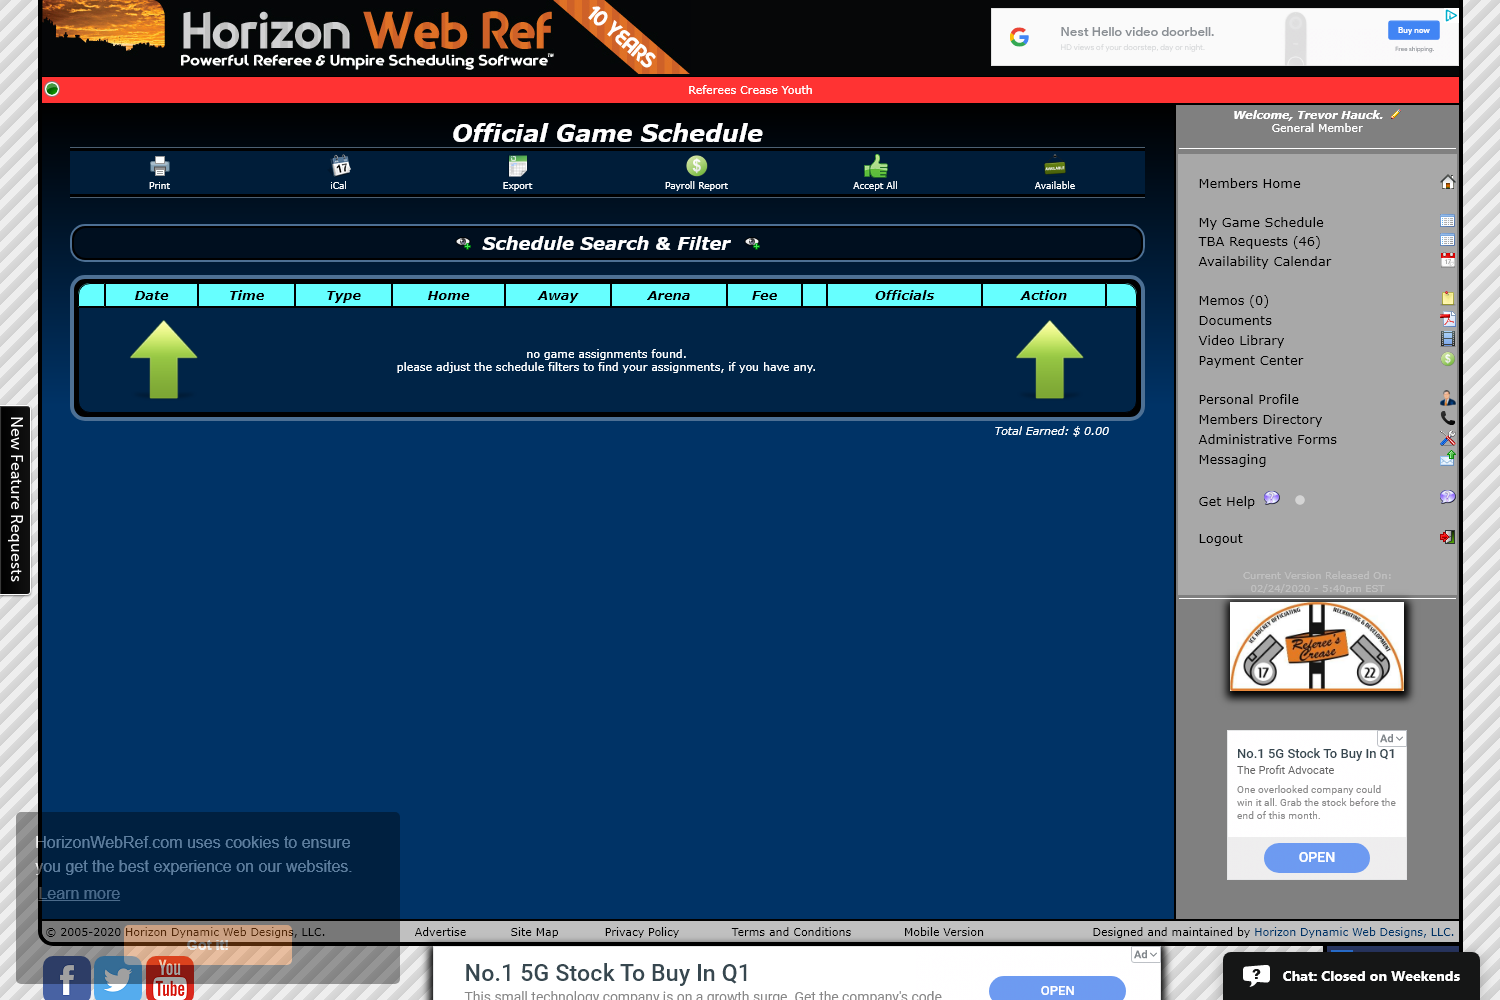
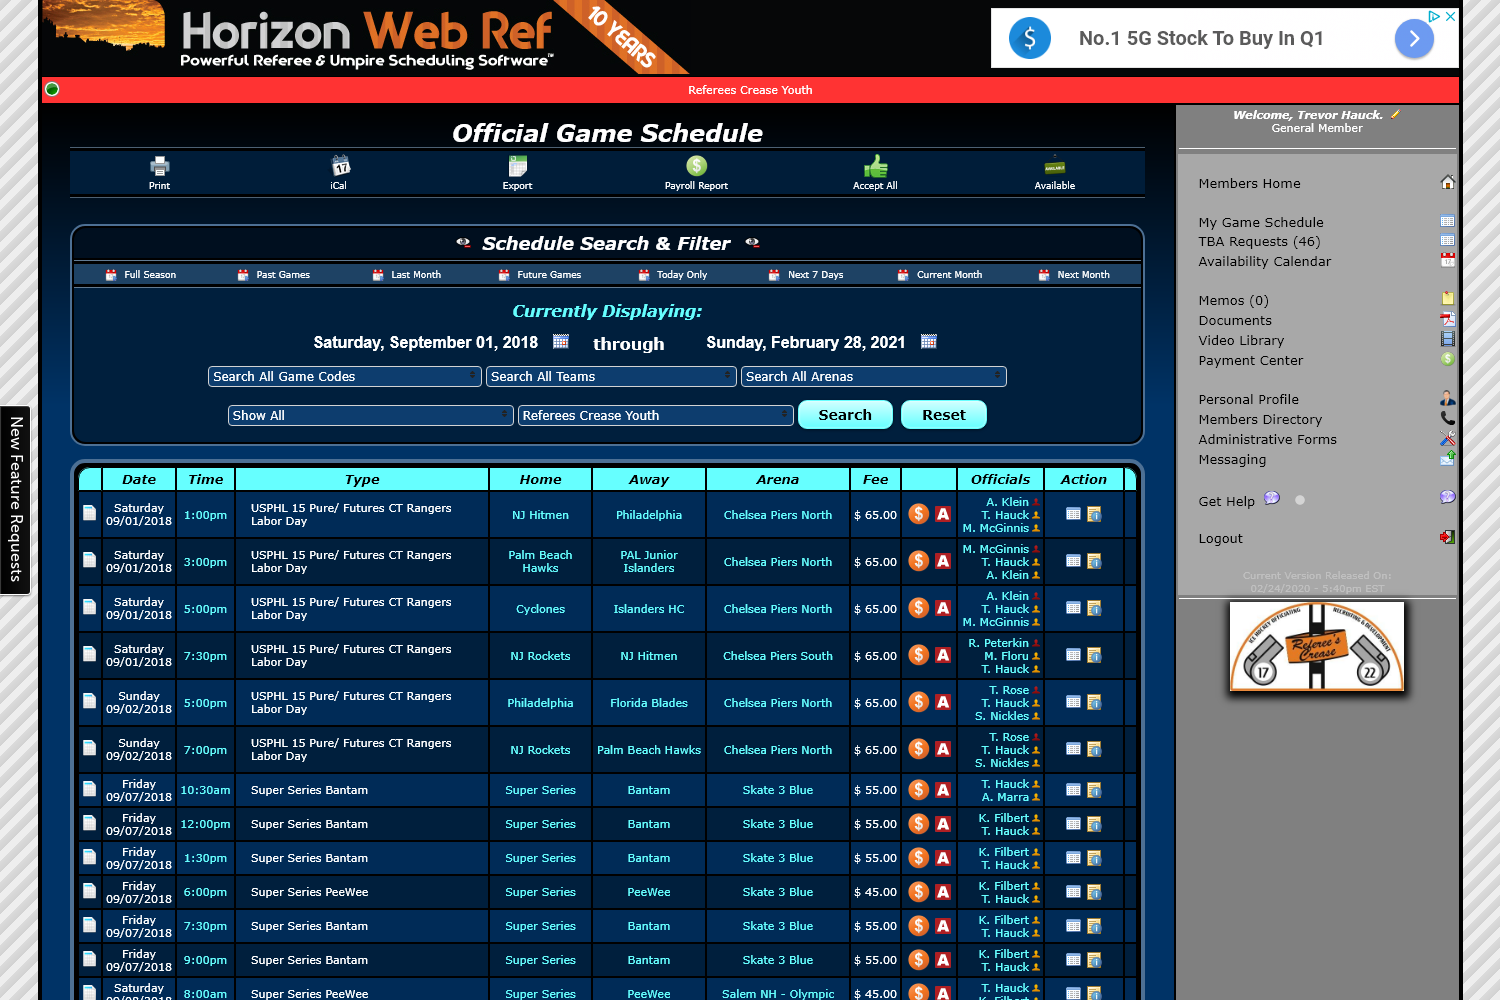
working on horizon scraper

diff --git a/server/src/routers/horizon/schedule.js b/server/src/routers/horizon/schedule.js
@@ -25,12 +25,10 @@ router.post('/api/horizon/schedule', auth, async (req, res) => {
 
     await page.keyboard.type(password)
     await page.click('#loginsub')
-    await page.screenshot({path: 'screenshotb4.png'})
 
     await page.content()
     await page.waitFor(1000)
     await page.goto('https://www.horizonwebref.com/?pageID=1102')
-    await page.screenshot({path: 'screenshot.png'})
     
     await page.click('#innerfiltbar')
     await page.waitFor(1000)
@@ -45,8 +43,12 @@ router.post('/api/horizon/schedule', auth, async (req, res) => {
 
     await page.click('#gobtn')
     await page.waitFor(1000)
+    await page.screenshot({path: 'screenshot.png'})
 
-    res.send(await page.content())
+    let content = await page.content()
+    content = content.toString().split('schedResults').splice(1)
+    content = content.join('')
+    res.send(content)
     await browser.close()
 })
 
